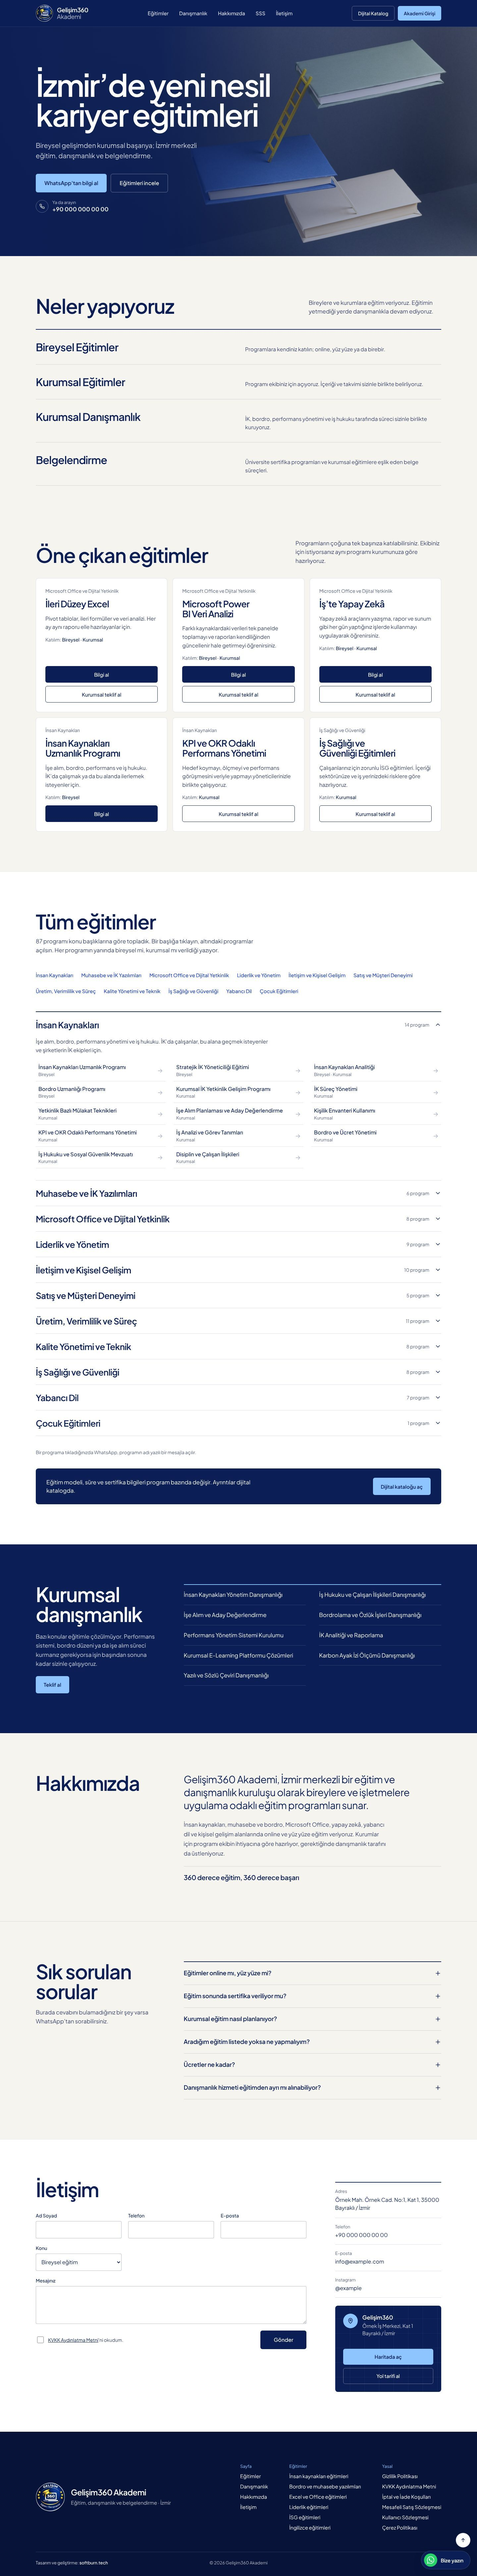
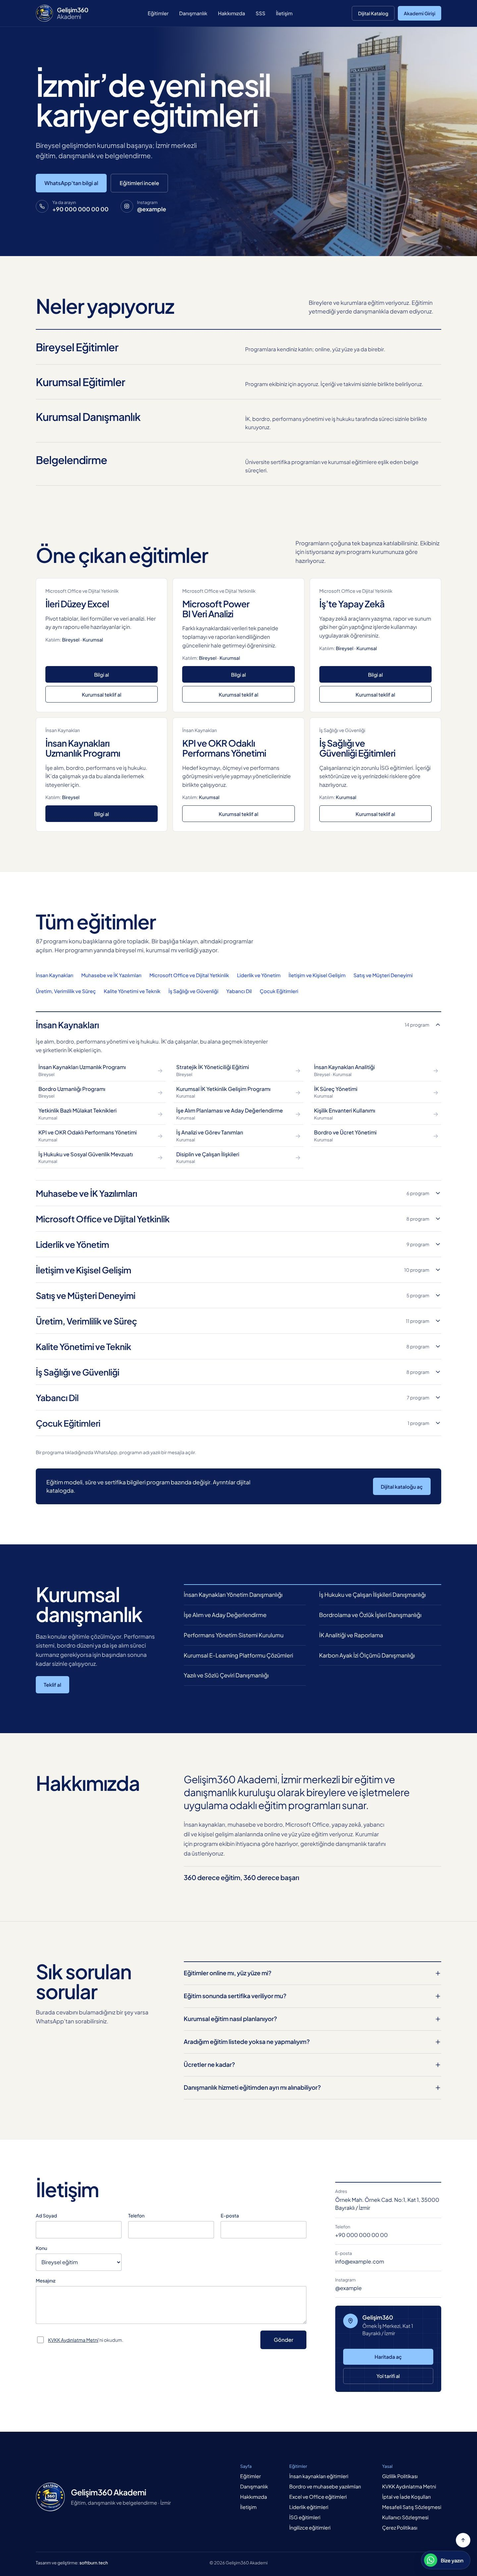
Hero: Folkart Towers photo, Instagram next to phone

Changed region(s): [[0.4062, 0.0, 1.0, 0.1246]]

diff --git a/index.html b/index.html
@@ -34,7 +34,9 @@ a{color:#0B1E55}a:hover{color:#0B1E55}
 .prog-row:hover .arr{opacity:1}
 .cat-btn:hover{background:#ECEBE4}
 .field:focus{outline:2px solid #0B1E55;outline-offset:1px;border-color:#0B1E55}
-.hero-bg{background-color:#38404A;background-image:url(assets/hero-bg.jpg);background-size:cover;background-position:right center}
+.hero-bg{position:absolute;top:0;bottom:0;left:32%;right:0;background-color:#0B1E55;background-image:url(assets/hero-bg2.jpg);background-size:cover;background-position:0% center}
+.hero-shade{position:absolute;inset:0;background:linear-gradient(90deg,#0B1E55 0%,#0B1E55 32%,rgba(11,30,85,.9) 40%,rgba(11,30,85,.7) 49%,rgba(11,30,85,.45) 58%,rgba(11,30,85,.25) 70%,rgba(11,30,85,.14) 100%)}
+@media (max-width: 900px){.hero-bg{left:0}.hero-shade{background:linear-gradient(180deg,rgba(11,30,85,.55) 0%,rgba(11,30,85,.82) 45%,rgba(11,30,85,.95) 100%)}}
 .totop:hover{background:#0B1E55 !important;color:#FFFFFF !important}
 .wa-float:hover{background:#163083 !important}
 @media (max-width: 600px){.wa-label{display:none}.wa-float{padding:0 8px !important}}
@@ -111,8 +113,8 @@ footer a[href*="softburn"]{display:inline-flex;align-items:center;min-height:44p
 <main id="top">
 
 <section aria-labelledby="hero-baslik" style="position: relative; background: #0B1E55; color: #FFFFFF; overflow: hidden">
-<div class="hero-bg" role="img" aria-label="Merdivenlerle birbirine bağlanan havada süzülen kitaplar" style="position: absolute; inset: 0"></div>
-<div aria-hidden="true" style="position: absolute; inset: 0; background: linear-gradient(90deg, rgba(11,30,85,.97) 0%, rgba(11,30,85,.9) 34%, rgba(11,30,85,.5) 58%, rgba(11,30,85,.28) 100%)"></div>
+<div class="hero-bg" role="img" aria-label="İzmir Bayraklı, Folkart Towers"></div>
+<div class="hero-shade" aria-hidden="true"></div>
 <div style="position: relative; max-width: 1320px; min-height: 660px; margin: 0 auto; padding: clamp(72px, 9vw, 128px) clamp(16px, 4vw, 48px); display: flex; flex-direction: column; justify-content: center; gap: 32px">
 <h1 id="hero-baslik" style="margin: 0; max-width: 900px; font-family: 'Plus Jakarta Sans', 'Segoe UI', sans-serif; font-weight: 600; font-size: clamp(44px, 6.4vw, 96px); line-height: .98; letter-spacing: -0.035em; text-wrap: balance">İzmir’de yeni nesil kariyer eğitimleri</h1>
 <p style="margin: 0; max-width: 520px; font-size: clamp(17px, 1.4vw, 20px); line-height: 1.55; color: rgba(255,255,255,.82); text-wrap: pretty">Bireysel gelişimden kurumsal başarıya; İzmir merkezli eğitim, danışmanlık ve belgelendirme.</p>
@@ -120,7 +122,10 @@ footer a[href*="softburn"]{display:inline-flex;align-items:center;min-height:44p
 <a class="btn btn-gold" href="https://wa.me/900000000000?text=Merhaba%2C%20Geli%C5%9Fim360%20Akademi%20e%C4%9Fitimleri%20hakk%C4%B1nda%20bilgi%20almak%20istiyorum." style="display: inline-flex; align-items: center; height: 56px; padding: 0 26px; background: #8EC5FF; color: #0B1E55; border-radius: 6px; text-decoration: none; font-weight: 600; font-size: 16px">WhatsApp'tan bilgi al</a>
 <a class="btn btn-ghost-light" href="#egitimler" style="display: inline-flex; align-items: center; height: 56px; padding: 0 26px; border: 1px solid rgba(255,255,255,.4); color: #FFFFFF; border-radius: 6px; text-decoration: none; font-weight: 500; font-size: 16px">Eğitimleri incele</a>
 </div>
-<a class="hero-call" href="tel:+900000000000" style="align-self: flex-start; margin-top: -12px; display: inline-flex; align-items: center; gap: 12px; min-height: 44px; text-decoration: none; color: #FFFFFF"><span class="hero-call-ic" aria-hidden="true" style="width: 38px; height: 38px; border-radius: 50%; border: 1px solid rgba(255,255,255,.35); display: flex; align-items: center; justify-content: center; flex: none"><svg width="16" height="16" viewBox="0 0 24 24" fill="none" stroke="currentColor" stroke-width="2" stroke-linecap="round" stroke-linejoin="round"><path d="M22 16.9v3a2 2 0 0 1-2.2 2 19.8 19.8 0 0 1-8.6-3.1 19.5 19.5 0 0 1-6-6A19.8 19.8 0 0 1 2.1 4.2 2 2 0 0 1 4.1 2h3a2 2 0 0 1 2 1.7c.1 1 .4 1.9.7 2.8a2 2 0 0 1-.5 2.1L8 9.9a16 16 0 0 0 6 6l1.3-1.3a2 2 0 0 1 2.1-.4c.9.3 1.8.6 2.8.7a2 2 0 0 1 1.7 2z"></path></svg></span><span style="display: flex; flex-direction: column; gap: 2px; line-height: 1.2"><span style="font-size: 13px; color: rgba(255,255,255,.72)">Ya da arayın</span><span style="font-size: 17px; font-weight: 600; letter-spacing: .01em; white-space: nowrap">+90 000 000 00 00</span></span></a>
+<div class="hero-contact" style="display: flex; flex-wrap: wrap; align-items: center; gap: 12px 36px; margin-top: -12px">
+<a class="hero-call" href="tel:+900000000000" style="display: inline-flex; align-items: center; gap: 12px; min-height: 44px; text-decoration: none; color: #FFFFFF"><span class="hero-call-ic" aria-hidden="true" style="width: 38px; height: 38px; border-radius: 50%; border: 1px solid rgba(255,255,255,.35); display: flex; align-items: center; justify-content: center; flex: none"><svg width="16" height="16" viewBox="0 0 24 24" fill="none" stroke="currentColor" stroke-width="2" stroke-linecap="round" stroke-linejoin="round"><path d="M22 16.9v3a2 2 0 0 1-2.2 2 19.8 19.8 0 0 1-8.6-3.1 19.5 19.5 0 0 1-6-6A19.8 19.8 0 0 1 2.1 4.2 2 2 0 0 1 4.1 2h3a2 2 0 0 1 2 1.7c.1 1 .4 1.9.7 2.8a2 2 0 0 1-.5 2.1L8 9.9a16 16 0 0 0 6 6l1.3-1.3a2 2 0 0 1 2.1-.4c.9.3 1.8.6 2.8.7a2 2 0 0 1 1.7 2z"></path></svg></span><span style="display: flex; flex-direction: column; gap: 2px; line-height: 1.2"><span style="font-size: 13px; color: rgba(255,255,255,.72)">Ya da arayın</span><span style="font-size: 17px; font-weight: 600; letter-spacing: .01em; white-space: nowrap">+90 000 000 00 00</span></span></a>
+<a class="hero-call" href="#" style="display: inline-flex; align-items: center; gap: 12px; min-height: 44px; text-decoration: none; color: #FFFFFF"><span class="hero-call-ic" aria-hidden="true" style="width: 38px; height: 38px; border-radius: 50%; border: 1px solid rgba(255,255,255,.35); display: flex; align-items: center; justify-content: center; flex: none"><svg width="17" height="17" viewBox="0 0 24 24" fill="none" stroke="currentColor" stroke-width="2" stroke-linecap="round" stroke-linejoin="round"><rect x="3" y="3" width="18" height="18" rx="5"></rect><circle cx="12" cy="12" r="4"></circle><circle cx="17.5" cy="6.5" r="1" fill="currentColor" stroke="none"></circle></svg></span><span style="display: flex; flex-direction: column; gap: 2px; line-height: 1.2"><span style="font-size: 13px; color: rgba(255,255,255,.72)">Instagram</span><span style="font-size: 17px; font-weight: 600; letter-spacing: .01em; white-space: nowrap">@example</span></span></a>
+</div>
 </div>
 </section>
 
